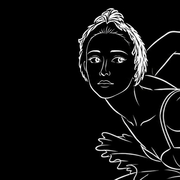
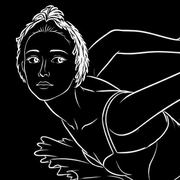
Align the ballerina's left eye with the upper-left third

diff --git a/parter/static/index.html b/parter/static/index.html
@@ -8,7 +8,7 @@
   <meta name="apple-mobile-web-app-title" content="Les Loisirs" />
   <meta name="theme-color" content="#0C0B0E" />
   <link rel="manifest" href="/manifest.webmanifest" />
-  <link rel="apple-touch-icon" sizes="180x180" href="/static/apple-touch-icon.png?v=73" />
+  <link rel="apple-touch-icon" sizes="180x180" href="/static/apple-touch-icon.png?v=74" />
   <title>Les Loisirs</title>
   <script>
     (function () {
